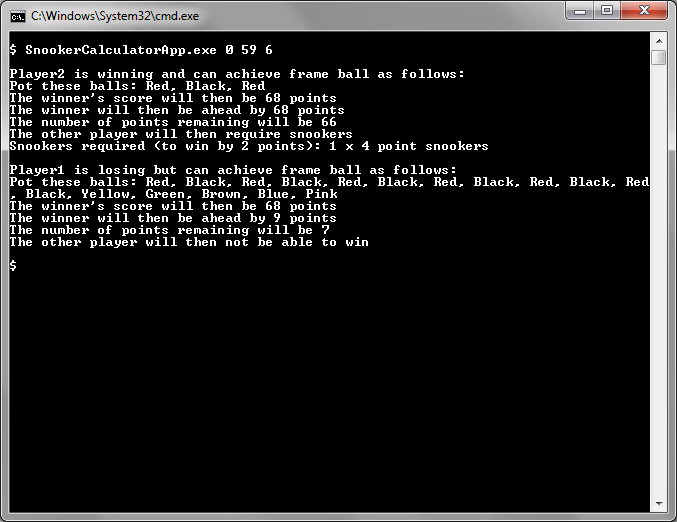
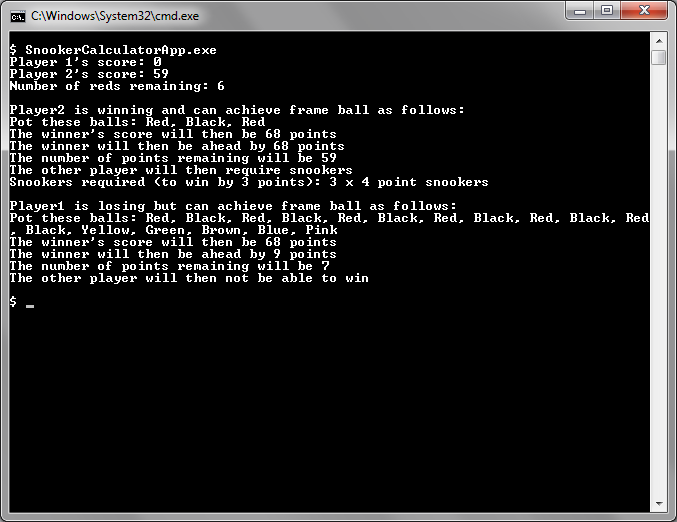
Fixed a bug and took new screenshot
Skip initial non-Red ball when summing remaining balls

diff --git a/SnookerCalculatorLibTests/SnookerCalculatorTests.cs b/SnookerCalculatorLibTests/SnookerCalculatorTests.cs
@@ -132,10 +132,10 @@ namespace SnookerCalculatorLibTests
             Assert.That(actual.FrameBallDetailsForWinningPlayer.FrameBalls, Is.EqualTo(new[] { 1, 7, 1 }));
             Assert.That(actual.FrameBallDetailsForWinningPlayer.Score, Is.EqualTo(68));
             Assert.That(actual.FrameBallDetailsForWinningPlayer.PointsAhead, Is.EqualTo(68));
-            Assert.That(actual.FrameBallDetailsForWinningPlayer.PointsRemaining, Is.EqualTo(66));
-            Assert.That(actual.FrameBallDetailsForWinningPlayer.SnookersRequiredDetails.NumberOfSnookersNeeded, Is.EqualTo(1));
+            Assert.That(actual.FrameBallDetailsForWinningPlayer.PointsRemaining, Is.EqualTo(59));
+            Assert.That(actual.FrameBallDetailsForWinningPlayer.SnookersRequiredDetails.NumberOfSnookersNeeded, Is.EqualTo(3));
             Assert.That(actual.FrameBallDetailsForWinningPlayer.SnookersRequiredDetails.ValueOfSnookersNeeded, Is.EqualTo(4));
-            Assert.That(actual.FrameBallDetailsForWinningPlayer.SnookersRequiredDetails.ToWinBy, Is.EqualTo(2));
+            Assert.That(actual.FrameBallDetailsForWinningPlayer.SnookersRequiredDetails.ToWinBy, Is.EqualTo(3));
 
             Assert.That(actual.FrameBallDetailsForLosingPlayer.FrameBalls, Is.EqualTo(new[] { 1, 7, 1, 7, 1, 7, 1, 7, 1, 7, 1, 7, 2, 3, 4, 5, 6 }));
             Assert.That(actual.FrameBallDetailsForLosingPlayer.Score, Is.EqualTo(68));
@@ -159,10 +159,10 @@ namespace SnookerCalculatorLibTests
             Assert.That(actual.FrameBallDetailsForWinningPlayer.FrameBalls, Is.EqualTo(new[] { 1, 7, 1 }));
             Assert.That(actual.FrameBallDetailsForWinningPlayer.Score, Is.EqualTo(68));
             Assert.That(actual.FrameBallDetailsForWinningPlayer.PointsAhead, Is.EqualTo(68));
-            Assert.That(actual.FrameBallDetailsForWinningPlayer.PointsRemaining, Is.EqualTo(66));
-            Assert.That(actual.FrameBallDetailsForWinningPlayer.SnookersRequiredDetails.NumberOfSnookersNeeded, Is.EqualTo(1));
+            Assert.That(actual.FrameBallDetailsForWinningPlayer.PointsRemaining, Is.EqualTo(59));
+            Assert.That(actual.FrameBallDetailsForWinningPlayer.SnookersRequiredDetails.NumberOfSnookersNeeded, Is.EqualTo(3));
             Assert.That(actual.FrameBallDetailsForWinningPlayer.SnookersRequiredDetails.ValueOfSnookersNeeded, Is.EqualTo(4));
-            Assert.That(actual.FrameBallDetailsForWinningPlayer.SnookersRequiredDetails.ToWinBy, Is.EqualTo(2));
+            Assert.That(actual.FrameBallDetailsForWinningPlayer.SnookersRequiredDetails.ToWinBy, Is.EqualTo(3));
 
             Assert.That(actual.FrameBallDetailsForLosingPlayer.FrameBalls, Is.EqualTo(new[] { 1, 7, 1, 7, 1, 7, 1, 7, 1, 7, 1, 7, 2, 3, 4, 5, 6 }));
             Assert.That(actual.FrameBallDetailsForLosingPlayer.Score, Is.EqualTo(68));

diff --git a/SnookerCalculatorLib/SnookerCalculator.cs b/SnookerCalculatorLib/SnookerCalculator.cs
@@ -89,7 +89,7 @@ namespace SnookerCalculatorLib
         }
 
         private static FrameBallDetails CalculateFrameBallDetails(
-            Func<int, int, IEnumerable<int>, IList<int>, FrameBallDetails> calculateFrameBallDetailsHelper,
+            Func<int, int, IList<int>, IList<int>, FrameBallDetails> calculateFrameBallDetailsHelper,
             int losingScore,
             int winningScore,
             IList<int> initialRemainingBalls,
@@ -127,7 +127,7 @@ namespace SnookerCalculatorLib
         private static FrameBallDetails CalculateFrameBallDetailsForWinningPlayer(
             int initialLosingScore,
             int initialWinningScore,
-            IEnumerable<int> remainingBalls,
+            IList<int> remainingBalls,
             IList<int> frameBalls)
         {
             var remainingBallsSum = remainingBalls.Sum();
@@ -142,13 +142,13 @@ namespace SnookerCalculatorLib
                 frameBalls,
                 latestWinningScore,
                 pointsAhead,
-                remainingBallsSum);
+                SanitisedRemainingBallsSum(remainingBalls));
         }
 
         private static FrameBallDetails CalculateFrameBallDetailsForLosingPlayer(
             int initialLosingScore,
             int initialWinningScore,
-            IEnumerable<int> remainingBalls,
+            IList<int> remainingBalls,
             IList<int> frameBalls)
         {
             var remainingBallsSum = remainingBalls.Sum();
@@ -163,7 +163,13 @@ namespace SnookerCalculatorLib
                 frameBalls,
                 latestLosingScore,
                 pointsAhead,
-                remainingBallsSum);
+                SanitisedRemainingBallsSum(remainingBalls));
+        }
+
+        private static int SanitisedRemainingBallsSum(ICollection<int> remainingBalls)
+        {
+            var skipCount = (remainingBalls.Count > Colours.Count() && remainingBalls.First() != Balls.Red) ? 1 : 0;
+            return remainingBalls.Skip(skipCount).Sum();
         }
 
         private static FrameBallDetails AddSnookersRequired(
